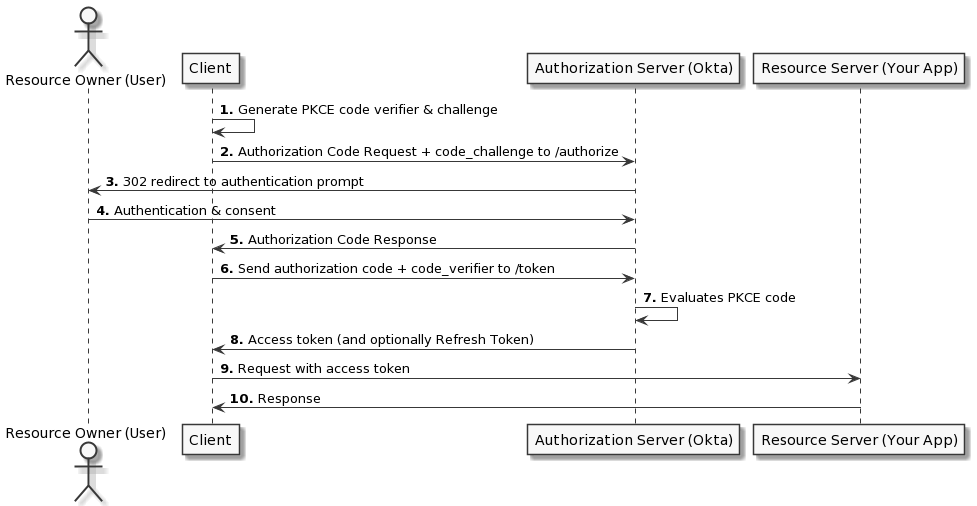
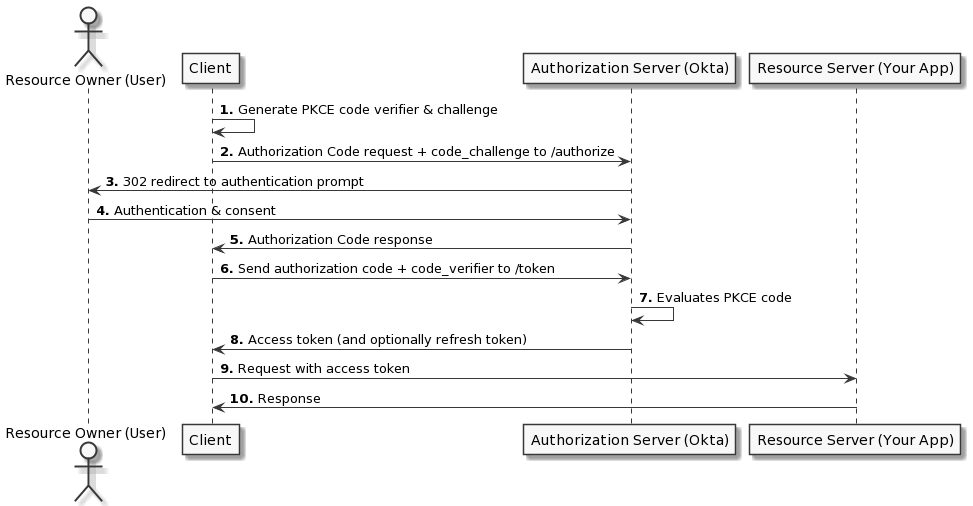
implement Susan's feedback and update grant flow descriptions for Client Credentials and RO password

diff --git a/packages/@okta/vuepress-site/docs/guides/implement-grant-type/main/implicit/flow-diagram.md b/packages/@okta/vuepress-site/docs/guides/implement-grant-type/main/implicit/flow-diagram.md
@@ -21,17 +21,19 @@ app -> client: Response
 -->
 The Implicit flow contains the following interaction steps:
 
-1. The Client sends a request to the Auth Server (Okta) for an access token.<br>
-You need to register your app so that Okta can accept the authorization request. See [Set up your app](#set-up-your-app) to register and configure your app with Okta. After registration, your app can initiate this authorization request to Okta for an access token. See [Request for tokens](#request-for-tokens) to implement this request.
+1. The Client sends a request to the Auth Server (Okta) for an access token.
+
+    You need to register your app so that Okta can accept the authorization request. See [Set up your app](#set-up-your-app) to register and configure your app with Okta. After registration, your app can initiate this authorization request to Okta for an access token. See [Request for tokens](#request-for-tokens) to implement this request.
 
 2. The Auth Server redirects the User browser to an authentication prompt (the Okta Sign-In Page), where the user authenticates.
 
-3. User authenticates with the Auth Server (Okta) and provides consent. <br>
-For Okta to authenticate the user credentials, Okta needs user profile data.
-See [Add a user using Console](/docs/guides/quickstart/cli/add-user/), [Import Users](/docs/guides/password-import-inline-hook/nodejs/import-users/), and the [Users API](/docs/reference/api/users/). Alternatively, you can [set up self-service registration](/docs/guides/set-up-self-service-registration/) to allow users to register their membership with the app.
+3. User authenticates with the Auth Server (Okta) and provides consent.
+
+    For Okta to authenticate the user credentials, Okta needs user profile data.
+    See [Add a user using Console](/docs/guides/quickstart/cli/add-user/), [Import Users](/docs/guides/password-import-inline-hook/nodejs/import-users/), and the [Users API](/docs/reference/api/users/). Alternatively, you can [set up self-service registration](/docs/guides/set-up-self-service-registration/) to allow users to register their membership with the app.
 
 4. Okta redirects the browser back to the specified redirect URI, along with access and ID tokens as a hash fragment in the URI.
 
 5. Your application extracts the tokens from the URI. See [Extract tokens from redirect URI](#extract-tokens-from-redirect-URI).
 
-6. The Client can use the access token to call the resource server (for example, an API) on behalf of the User. See [Validate access tokens](#validate-access-tokens).
+6. The Client can use the access token to call the resource server (for example, an API) on behalf of the User. See [Validate access token](#validate-access-token).

diff --git a/packages/@okta/vuepress-site/docs/guides/implement-grant-type/main/authcodepkce/flow-diagram.md b/packages/@okta/vuepress-site/docs/guides/implement-grant-type/main/authcodepkce/flow-diagram.md
@@ -19,7 +19,7 @@ user -> okta: Authentication & consent
 okta -> client: Authorization Code response
 client -> okta: Send authorization code + code_verifier to /token
 okta -> okta: Evaluates PKCE code
-okta -> client: Access token (and optionally Refresh Token)
+okta -> client: Access token (and optionally refresh token)
 client -> app: Request with access token
 app -> client: Response
 @enduml
@@ -29,10 +29,16 @@ app -> client: Response
  At a high-level, the flow has the following steps:
 
 1. Your application (app) generates a code verifier followed by a code challenge. See [Create the proof key for code exchange](#create-the-proof-key-for-code-exchange).
-2. Your app directs the browser to the Okta sign-in page, along with the generated code challenge.<br>
-You need to register your app so that Okta can accept the authorization request. See [Set up your app](#set-up-your-app) to register and configure your app with Okta. After registration, your app can redirect the browser to Okta. See [Request an authorization code](#request-an-authorization-code).
+2. Your app directs the browser to the Okta sign-in page, along with the generated code challenge.
+
+    You need to register your app so that Okta can accept the authorization request. See [Set up your app](#set-up-your-app) to register and configure your app with Okta. After registration, your app can redirect the browser to Okta. See [Request an authorization code](#request-an-authorization-code).
+
 3. The Authorization Server (Okta) redirects the authentication prompt to the user.
 4. The user authenticates.
+
+    For Okta to authenticate the user credentials, Okta needs user profile data.
+    See [Add a user using Console](/docs/guides/quickstart/cli/add-user/), [Import Users](/docs/guides/password-import-inline-hook/nodejs/import-users/), and the [Users API](/docs/reference/api/users/). Alternatively, you can [set up self-service registration](/docs/guides/set-up-self-service-registration/) to allow users to register their membership with the app.
+
 5. Okta redirects back to your native application with an authorization code.
 6. Your application sends this code, along with the code verifier, to Okta. See [Exchange the code for tokens](#exchange-the-code-for-tokens).
 7. Okta evaluates the PKCE code.

diff --git a/packages/@okta/vuepress-site/docs/guides/implement-grant-type/main/authcode/flow-diagram.md b/packages/@okta/vuepress-site/docs/guides/implement-grant-type/main/authcode/flow-diagram.md
@@ -16,17 +16,24 @@ okta -> user: 302 redirect to authentication prompt
 user -> okta: Authentication & consent
 okta -> client: Authorization Code response
 client -> okta: Send authorization code + client secret to /token
-okta -> client: Access token (and optionally Refresh Token)
+okta -> client: Access token (and optionally refresh token)
 client -> app: Request with access token
 app -> client: Response
+
 -->
 
 At a high-level, this flow has the following steps:
 
-1. Your application (app) directs the browser to the Okta sign-in page.<br>
-Before implementing this redirect request to the Auth Server (Okta), you need to [set up your app](#set-up-your-app) in Okta to obtain a client ID to embed in your request. See [Request an authorization code](#request-an-authorization-code).
+1. Your application (app) directs the browser to the Okta sign-in page.
+
+    Before implementing this redirect request to the Auth Server (Okta), you need to [set up your app](#set-up-your-app) in Okta to obtain a client ID to embed in your request. See [Request an authorization code](#request-an-authorization-code).
+
 2. Okta redirects the authentication prompt (Okta sign-in page) to the user.
 3. The user authenticates.
+
+    For Okta to authenticate the user credentials, Okta needs user profile data.
+    See [Add a user using Console](/docs/guides/quickstart/cli/add-user/), [Import Users](/docs/guides/password-import-inline-hook/nodejs/import-users/), and the [Users API](/docs/reference/api/users/). Alternatively, you can [set up self-service registration](/docs/guides/set-up-self-service-registration/) to allow users to register their membership with the app.
+
 4. After the user is authenticated, the browser receives an authorization code from the Auth Server (Okta). The authorization code is passed to your app.
 5. Your app sends this code and the client secret to Okta. See [Exchange the code for tokens](#exchange-the-code-for-tokens).
 6. Okta returns access and ID tokens, and optionally a refresh token.

diff --git a/packages/@okta/vuepress-site/docs/guides/implement-grant-type/main/ropassword/flow-diagram.md b/packages/@okta/vuepress-site/docs/guides/implement-grant-type/main/ropassword/flow-diagram.md
@@ -14,7 +14,7 @@ participant "Resource Server (Your App)" as app
 autonumber "<b>#."
 user -> client: Authenticates
 client -> okta: Access token request to /token
-okta -> client: Access token (+optional Refresh Token) response
+okta -> client: Access token (+optional refresh token) response
 client -> app: Request with access token
 app -> client: Response
 @enduml
@@ -22,6 +22,12 @@ app -> client: Response
 -->
 At a high-level, this flow has the following steps:
 
-- Your client application collects a user's credentials.
-- Your application sends these credentials to your authorization server.
-- If the credentials are accurate, Okta responds with the requested tokens.
+1. User authenticates with your client application (app) - providing their user credentials.
+
+2. Your app sends its client ID and secret plus these credentials your authorization server. See [Request for tokens](#request-for-tokens) to implement this request.
+
+3. If the credentials are accurate, Okta responds with the requested tokens.
+
+4. Your app uses the access token to make authorized requests to the resource server.
+
+5. The resource server validates the token before responding to the request. See [Validate access token](#validate-access-token).

diff --git a/packages/@okta/vuepress-site/docs/guides/implement-grant-type/main/ropassword/use-flow.md b/packages/@okta/vuepress-site/docs/guides/implement-grant-type/main/ropassword/use-flow.md
@@ -1,4 +1,4 @@
-The following sections outline the main processes required to implement the Resource Owner Password flow using direct calls to Okta's [OIDC & OAuth 2.0 API](/docs/reference/api/oidc/).
+If implementing the Resource Owner Password flow is your only option, you need to make direct calls to Okta's [OIDC & OAuth 2.0 API](/docs/reference/api/oidc/). See the following section for requests required in the flow.
 
 ### Request for tokens
 
@@ -26,7 +26,7 @@ For more information on these parameters, see the [OAuth 2.0 API reference](/doc
 
 If the credentials are valid, your application receives back access and ID tokens:
 
-```
+```json
 {
     "access_token": "eyJhb[...]56Rg",
     "expires_in": 3600,
@@ -36,6 +36,6 @@ If the credentials are valid, your application receives back access and ID token
 }
 ```
 
-### Validate access tokens
+### Validate access token
 
 When your application passes a request with an access token, the resource server needs to validate it. See [Validate access tokens](/docs/guides/validate-access-tokens/).

diff --git a/packages/@okta/vuepress-site/docs/guides/implement-grant-type/main/authcodepkce/use-flow.md b/packages/@okta/vuepress-site/docs/guides/implement-grant-type/main/authcodepkce/use-flow.md
@@ -50,11 +50,11 @@ If the user doesn't have an existing session, this request opens the Okta sign-i
 yourApp:/callback?code=BdLDvZvO3ZfSwg-asLNk&state=state-8600b31f-52d1-4dca-987c-386e3d8967e9
 ```
 
-This code can only be used once, and remains valid for 3600 seconds, during which time it can be exchanged for tokens.
+This code can only be used once, and remains valid for 300 seconds, during which time it can be exchanged for tokens.
 
 ### Exchange the code for tokens
 
-To exchange this code for access and ID tokens, you pass it to your [Authorization Server's](/docs/concepts/auth-servers/) `/token` endpoint along with the `code_verifier` that was generated at the beginning:
+To exchange the authorization code for access and ID tokens, you pass it to your [Authorization Server's](/docs/concepts/auth-servers/) `/token` endpoint along with the `code_verifier` that was generated at the beginning:
 
 ```
 curl --request POST \

diff --git a/packages/@okta/vuepress-site/docs/guides/implement-grant-type/main/clientcreds/flow-diagram.md b/packages/@okta/vuepress-site/docs/guides/implement-grant-type/main/clientcreds/flow-diagram.md
@@ -20,5 +20,10 @@ app -> client: Response
 -->
 At a high-level, this flow has the following steps:
 
-- Your application passes its client credentials to your Okta Authorization Server.
-- If the credentials are accurate, Okta responds with an access token.
+1. Your client application (app) passes its client credentials to your Okta Authorization Server.
+
+2. If the credentials are accurate, Okta responds with an access token.
+
+3. Your app uses the access token to make authorized requests to the resource server.
+
+4. The resource server validates the token before responding to the request. See [Validate access token](#validate-access-token).

diff --git a/packages/@okta/vuepress-site/docs/guides/implement-grant-type/main/index.md b/packages/@okta/vuepress-site/docs/guides/implement-grant-type/main/index.md
@@ -28,11 +28,7 @@ Before you can implement authorization, you need to register your app in Okta by
 
 ## Install an Okta SDK
 
-Okta provides an array of language and framework SDKs to quickly implement authorization with Okta. See [Languages & SDKs overivew](/code/) for a list of SDKs that you can download to start using with your app.
-
 <StackSnippet snippet="install-sdk" />
-
-<!-- "Redirect to Auth Server" , "Flow usage" , "Exchange authorization code for token", "Scopes", "Get access token" grant-specific content -->
 
 ## Implement flow
 

diff --git a/packages/@okta/vuepress-site/docs/guides/implement-grant-type/main/authcodepkce/install-sdk.md b/packages/@okta/vuepress-site/docs/guides/implement-grant-type/main/authcodepkce/install-sdk.md
@@ -1,1 +1,3 @@
+Okta provides an array of language and framework SDKs to quickly implement authorization with Okta. See [Languages & SDKs overivew](/code/) for a list of SDKs that you can download to start using with your app.
+
 For instructions on how to install and use Okta framework SDKs, refer to [Configure the SDK](/docs/guides/sign-into-spa/-/configure-the-sdk) for front-end SDKs and [Add and configure packages](/docs/guides/sign-into-mobile-app/-/configure-packages/) for mobile native SDKs.

diff --git a/packages/@okta/vuepress-site/docs/guides/implement-grant-type/main/ropassword/setup-app.md b/packages/@okta/vuepress-site/docs/guides/implement-grant-type/main/ropassword/setup-app.md
@@ -5,4 +5,4 @@
 8. On the **General** tab, click **Edit** in the the **Client Credentials** section.
 9. Select **Use Client Authentication**, then click **Save**.
 
-From the **General** tab of your app integration, save the generated **Client ID** and **Client Secret** values to implement your authorization flow.
+From the **General** tab of your app integration, save the generated **Client ID** and **Client secret** values to implement your authorization flow.

diff --git a/packages/@okta/vuepress-site/docs/guides/implement-grant-type/main/authcode/use-flow.md b/packages/@okta/vuepress-site/docs/guides/implement-grant-type/main/authcode/use-flow.md
@@ -27,7 +27,7 @@ If the user doesn't have an existing session, making this request opens the Okta
 http://localhost:8080/?code=P5I7mdxxdv13_JfXrCSq&state=state-296bc9a0-a2a2-4a57-be1a-d0e2fd9bb601
 ```
 
-This code remains valid for 3600 seconds, during which it can be exchanged for tokens.
+This code remains valid for 300 seconds, during which it can be exchanged for tokens.
 
 ### Exchange the code for tokens
 

diff --git a/packages/@okta/vuepress-site/docs/guides/implement-grant-type/main/implicit/use-flow.md b/packages/@okta/vuepress-site/docs/guides/implement-grant-type/main/implicit/use-flow.md
@@ -29,6 +29,6 @@ http://${yourOktaDomain}/#access_token=eyJhb[...]erw&token_type=Bearer&expires_i
 
 Your application must now extract the token(s) from the URI and store them.
 
-### Validate access tokens
+### Validate access token
 
 When your application passes a request with an access token, the resource server needs to validate it. See [Validate access tokens](/docs/guides/validate-access-tokens/).
